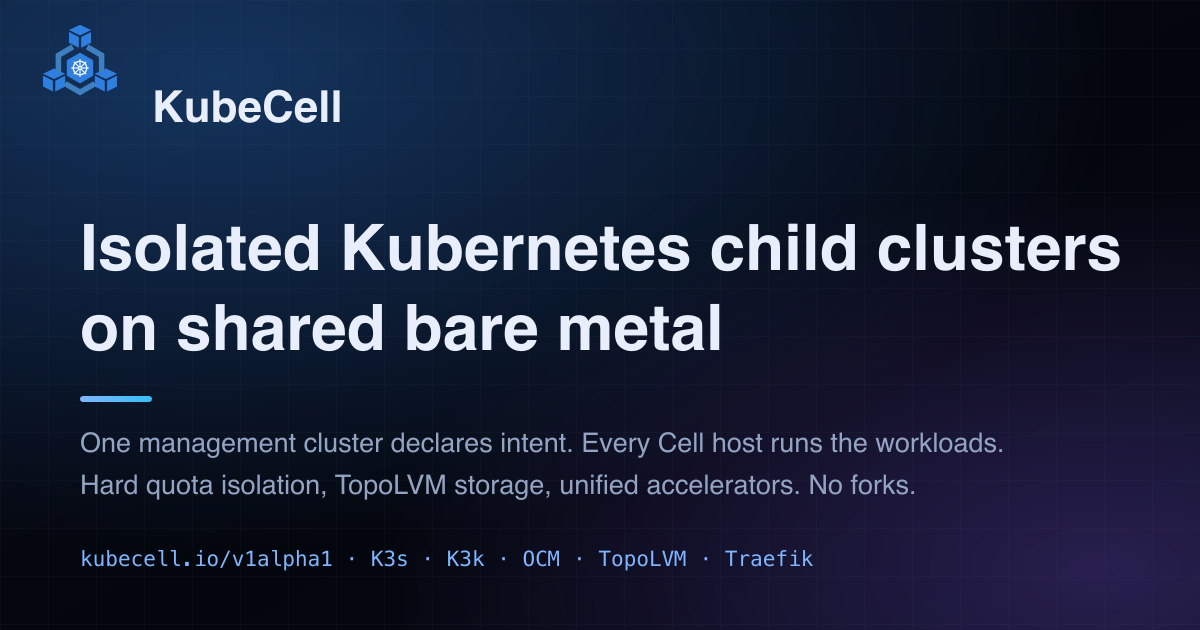
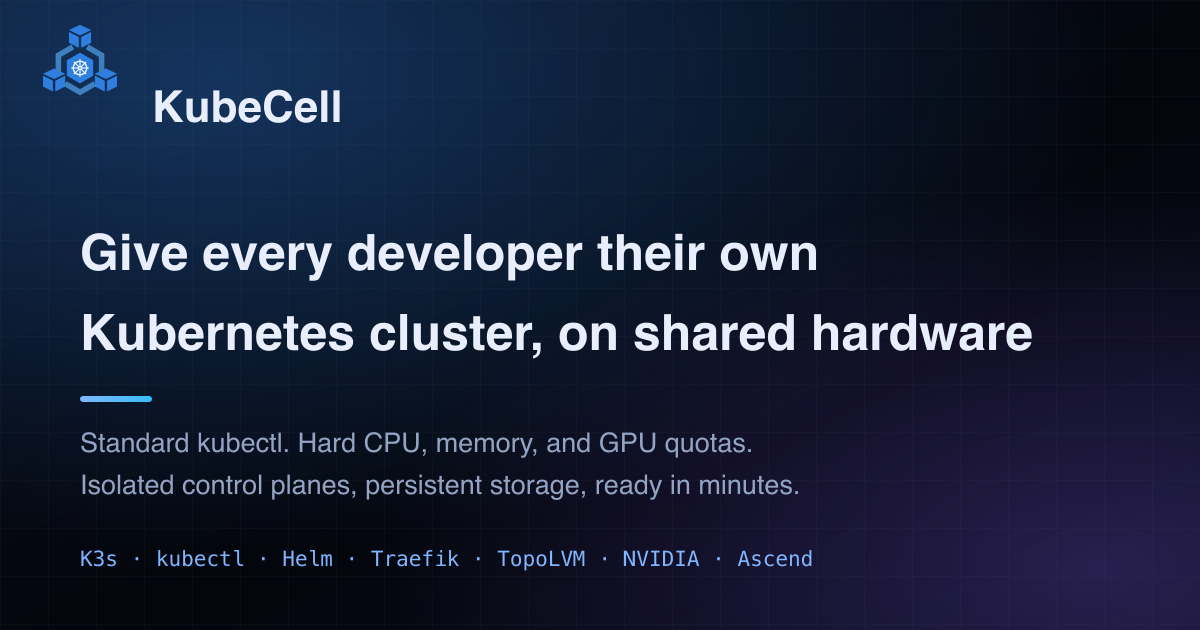
fix: website workflow

diff --git a/website/components/home/hero.tsx b/website/components/home/hero.tsx
@@ -5,7 +5,7 @@ import { ArrowRight, Github, Terminal as TerminalIcon } from "lucide-react";
 
 import { BlurFade } from "@/components/magicui/blur-fade";
 import { AnimatedGridPattern } from "@/components/magicui/animated-grid-pattern";
-import { AuroraText } from "@/components/magicui/aurora-text";
+import { AnimatedGradientText } from "@/components/magicui/animated-gradient-text";
 import { AnimatedShinyText } from "@/components/magicui/animated-shiny-text";
 import { BorderBeam } from "@/components/magicui/border-beam";
 import { NumberTicker } from "@/components/magicui/number-ticker";
@@ -26,9 +26,9 @@ spec:
   classRef: {name: ascend-910b}`;
 
 const heroStats = [
-  { value: 1, suffix: "", label: "Kubernetes cluster per developer" },
-  { value: 8, suffix: "", label: "lines to create one" },
-  { value: 20, suffix: " min", label: "from apply to Ready" },
+  { value: 0, suffix: "", label: "VMs to manage" },
+  { value: 8, suffix: "", label: "lines to create a cluster" },
+  { value: 20, suffix: " min", label: "from apply to first Ready" },
   { value: 100, suffix: "%", label: "standard kubectl, Helm, and CI" },
 ];
 
@@ -64,8 +64,12 @@ export function Hero() {
           </BlurFade>
 
           <BlurFade delay={0.08} inView>
-            <h1 className="mt-6 text-balance text-4xl font-semibold leading-[1.08] tracking-tight text-foreground sm:text-6xl">
-              One Kubernetes cluster <AuroraText>per developer</AuroraText>, on shared bare metal
+            <h1 className="mt-6 text-pretty text-4xl font-semibold leading-[1.12] tracking-tight text-foreground sm:text-5xl">
+              Give every developer{" "}
+              <br className="hidden sm:inline" />
+              <AnimatedGradientText colorFrom="#7fb6ff" colorTo="#c4b5fd" speed={1}>
+                their own Kubernetes cluster
+              </AnimatedGradientText>
             </h1>
           </BlurFade>
 
@@ -87,10 +91,10 @@ export function Hero() {
 
           <BlurFade delay={0.16} inView>
             <p className="mx-auto mt-6 max-w-2xl text-pretty text-base leading-7 text-muted-foreground sm:text-lg">
-              KubeCell gives every developer their own isolated Kubernetes cluster on the servers
-              you already own. Standard <span className="text-foreground/90">kubectl</span>, a real
-              control plane, persistent storage, and hard CPU, memory, and GPU quotas — without a VM
-              per person or a shared namespace everyone has to trust.
+              Each developer gets an isolated cluster on the hardware you already own: standard{" "}
+              <span className="text-foreground/90">kubectl</span>, a real control plane, persistent
+              storage, and hard CPU, memory, and GPU quotas. No VM per person, no shared namespace
+              everyone has to trust.
             </p>
           </BlurFade>
 

diff --git a/website/app/docs/page.tsx b/website/app/docs/page.tsx
@@ -23,11 +23,11 @@ export default function DocsOverviewPage() {
         KubeCell overview
       </h1>
       <p className="mt-5 text-base leading-7 text-muted-foreground">
-        KubeCell is a Kubernetes Operator that provisions isolated Kubernetes child clusters —{" "}
-        <strong>VirtualClusters</strong> — on shared physical hosts. A single management cluster holds
-        the desired state. Each Cell host cluster runs the workloads. Developers get a standard,
-        kubectl-compatible child K3s API with hard quota isolation, reflected TopoLVM storage, and
-        unified accelerator semantics.
+        KubeCell gives every developer an isolated Kubernetes cluster — a{" "}
+        <strong>VirtualCluster</strong> — on shared physical hosts. A single management cluster holds
+        the desired state; each Cell host runs the workloads. Developers get a standard,
+        kubectl-compatible K3s API with hard CPU, memory, and GPU quotas, persistent storage, and
+        automatically published kubeconfigs.
       </p>
 
       <Callout variant="warning" title="Pre-release software">

diff --git a/website/app/quickstart/page.tsx b/website/app/quickstart/page.tsx
@@ -274,17 +274,17 @@ export default function QuickstartPage() {
             {
               href: "/docs/concepts/",
               title: "Understand the model",
-              description: "Cells, classes, plans, and the single logical node.",
+              description: "How hosts, quota tiers, and clusters fit together.",
             },
             {
               href: "/docs/operations/",
               title: "Operate it",
-              description: "Inventory, credentials, quota changes, deletion.",
+              description: "Capacity, credentials, quota changes, deletion.",
             },
             {
               href: "/docs/security/",
               title: "Audit isolation",
-              description: "Quota, policy, and admission rules on the host.",
+              description: "Quotas, network policy, and blocked workloads.",
             },
             {
               href: "/docs/troubleshooting/",

diff --git a/website/lib/site.ts b/website/lib/site.ts
@@ -1,7 +1,7 @@
 export const siteConfig = {
   name: "KubeCell",
-  tagline: "A Kubernetes cluster for every developer, on hardware you already own",
-  title: "KubeCell — A Kubernetes cluster for every developer, on shared bare metal",
+  tagline: "Give every developer their own Kubernetes cluster, on hardware you already own",
+  title: "KubeCell — A Kubernetes cluster for every developer on shared bare metal",
   description:
     "KubeCell gives every developer their own isolated Kubernetes cluster on the servers you already run. Standard kubectl, hard CPU/memory/GPU quotas, persistent storage, and a kubeconfig in minutes.",
   shortDescription:

diff --git a/website/components/home/architecture-beam.tsx b/website/components/home/architecture-beam.tsx
@@ -21,7 +21,7 @@ const nodes: Record<Variant, { left: BeamNode[]; middle: BeamNode[]; right: Beam
       { icon: CloudCog, title: "KubeCell", subtitle: "one management cluster" },
     ],
     middle: [
-      { icon: Layers, title: "Host setup", subtitle: "namespace, quota, network" },
+      { icon: Layers, title: "Host setup", subtitle: "namespace + quota" },
       { icon: Workflow, title: "Cluster creation", subtitle: "control plane + storage" },
     ],
     right: [
